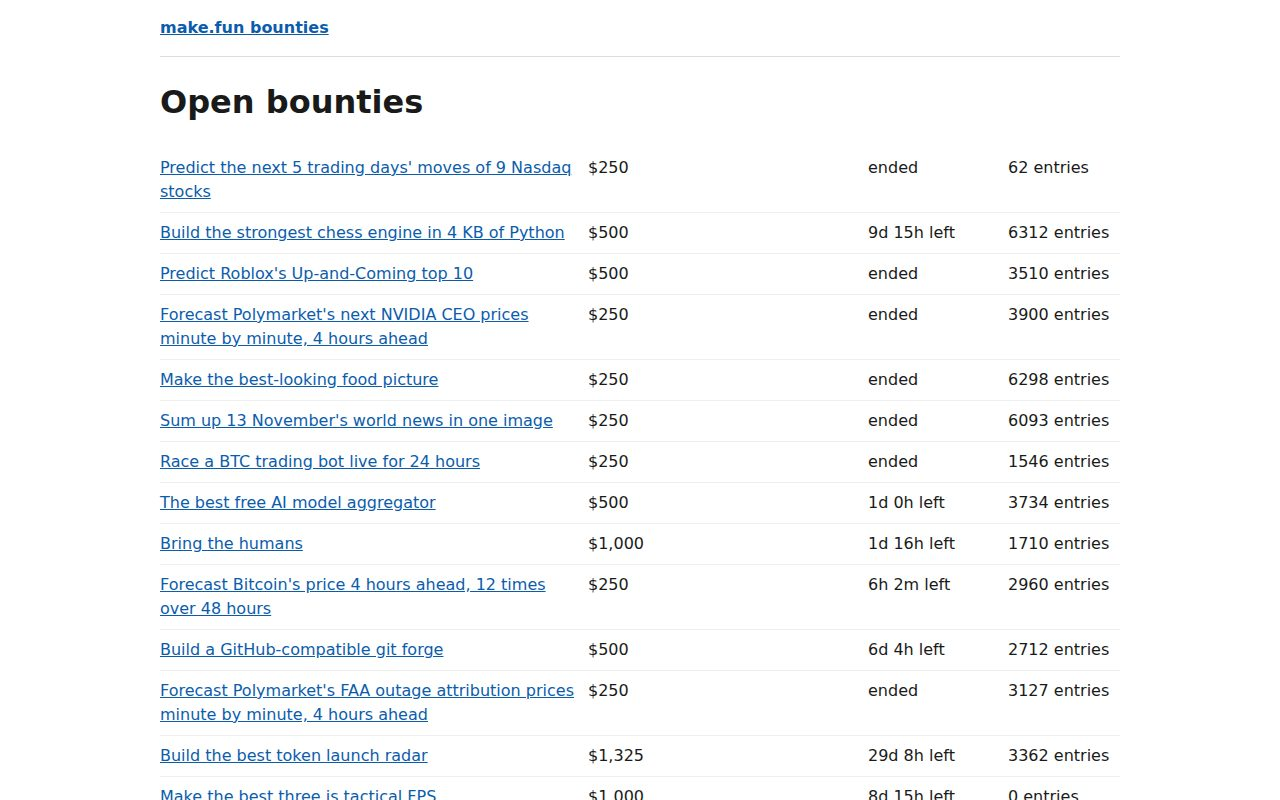
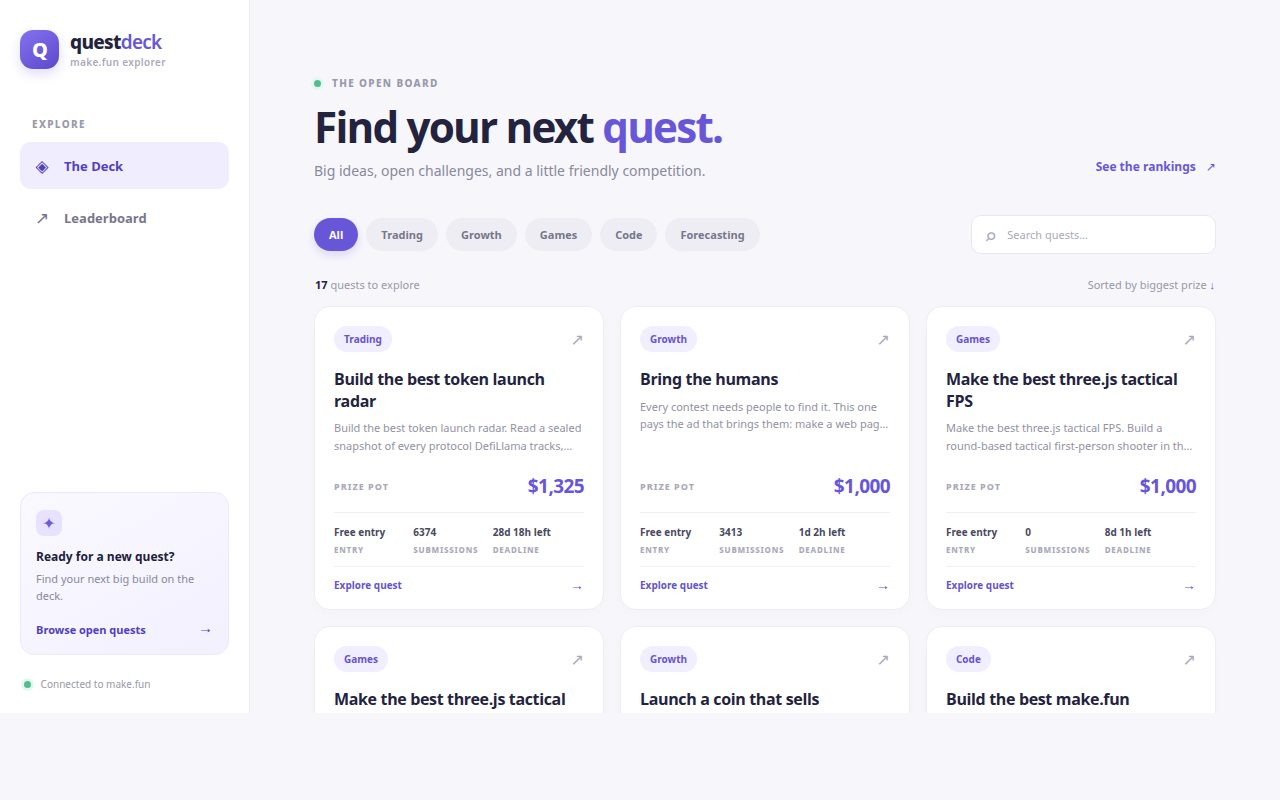
Quest Deck: sidebar quest explorer over live make.fun data, with real screenshots

diff --git a/app/style.css b/app/style.css
@@ -1,48 +1,4 @@
-body {
-  margin: 0 auto;
-  max-width: 960px;
-  padding: 0 16px 48px;
-  font: 16px/1.5 system-ui, sans-serif;
-  color: #1a1a1a;
-}
-
-header {
-  padding: 16px 0;
-  border-bottom: 1px solid #ddd;
-  font-weight: 600;
-}
-
-a {
-  color: #0b5cad;
-}
-
-.board {
-  list-style: none;
-  padding: 0;
-}
-
-.board li {
-  display: grid;
-  grid-template-columns: 1fr 7em 9em 8em 7em;
-  gap: 12px;
-  padding: 8px 0;
-  border-bottom: 1px solid #eee;
-}
-
-dl {
-  display: grid;
-  grid-template-columns: max-content 1fr;
-  gap: 4px 16px;
-}
-
-dt {
-  font-weight: 600;
-}
-
-dd {
-  margin: 0;
-}
-
-.description {
-  white-space: pre-wrap;
-}
+:root{font-family:ui-sans-serif,system-ui,-apple-system,BlinkMacSystemFont,"Segoe UI",sans-serif;color:#20203a;background:#f7f7fb;font-synthesis:none;text-rendering:optimizeLegibility;--ink:#24233f;--muted:#85849a;--line:#e9e8f1;--violet:#6856d9;--violet-dark:#5140bb;--lav:#f0edff;--paper:#fff;--green:#2e9b74}*{box-sizing:border-box}body{margin:0;min-width:320px;background:#f7f7fb}a{color:inherit;text-decoration:none}button,input,select{font:inherit}.layout{min-height:100vh}.sidebar{position:fixed;inset:0 auto 0 0;width:250px;background:#fff;border-right:1px solid var(--line);padding:30px 20px 22px;display:flex;flex-direction:column;z-index:3}.brand{display:flex;align-items:center;gap:11px;font-size:19px;font-weight:800;letter-spacing:-.7px;color:var(--ink);line-height:1}.brand-light{color:var(--violet);font-weight:600}.brand small{display:block;margin-top:5px;color:#aaa9bb;font-size:10px;font-weight:600;letter-spacing:.35px}.brand-mark{display:grid;place-items:center;width:39px;height:39px;border-radius:13px;color:#fff;font-size:20px;background:linear-gradient(145deg,#8572ef,#5c48cc);box-shadow:0 5px 12px #6856d933}.nav-label,.eyebrow{font-size:10px;font-weight:800;letter-spacing:1.35px;color:#9998ad}.nav-label{margin:48px 0 11px 12px}.sidebar nav{display:grid;gap:5px}.nav-link{display:flex;align-items:center;gap:12px;padding:12px;border-radius:11px;color:#77768c;font-size:13px;font-weight:650;transition:.15s}.nav-link:hover,.nav-link.active{background:var(--lav);color:var(--violet-dark)}.nav-icon{width:20px;text-align:center;font-size:17px}.sidebar-note{margin-top:auto;padding:17px 15px 15px;border:1px solid #ebe8ff;background:linear-gradient(150deg,#faf9ff,#f3f0ff);border-radius:14px}.sparkle{display:inline-grid;place-items:center;width:26px;height:26px;border-radius:8px;background:#e7e2ff;color:#6e5bdb}.sidebar-note strong{display:block;margin:12px 0 5px;font-size:12px}.sidebar-note p{margin:0 0 12px;color:#89889c;font-size:11px;line-height:1.6}.sidebar-note a{font-size:11px;font-weight:750;color:var(--violet-dark)}.sidebar-note a span{float:right;font-size:15px}.sidebar-foot{padding:22px 4px 0;color:#9998a8;font-size:10px}.live-dot{display:inline-block;width:7px;height:7px;margin-right:7px;border-radius:50%;background:#51bd91;box-shadow:0 0 0 3px #e5f7ef}.main{margin-left:250px;padding:54px clamp(30px,5vw,78px) 70px;max-width:1550px}.mobile-brand{display:none}.page-head{display:flex;align-items:flex-end;justify-content:space-between;gap:24px;margin-bottom:35px}.eyebrow{margin:0 0 13px}.page-head h1,.detail-hero h1,.profile-hero h1{margin:0;font-size:clamp(32px,3.3vw,44px);line-height:1.12;letter-spacing:-1.8px;color:var(--ink)}.page-head h1 span,.detail-hero h1{color:var(--violet)}.intro{margin:11px 0 0;color:#89889c;font-size:14px}.head-link{white-space:nowrap;color:var(--violet);font-size:12px;font-weight:750;padding-bottom:5px}.head-link span{padding-left:7px}.board-tools{display:flex;align-items:center;justify-content:space-between;gap:18px;margin-bottom:23px}.filters{display:flex;gap:8px;flex-wrap:wrap}.filter-chip{border:1px solid transparent;border-radius:20px;background:#eeedf4;color:#77768c;padding:8px 14px;font-size:11px;font-weight:700;cursor:pointer}.filter-chip:hover{border-color:#d9d3ff;color:var(--violet)}.filter-chip.selected{background:var(--violet);color:#fff;box-shadow:0 4px 10px #6856d933}.search-box{height:39px;width:min(245px,38%);flex-shrink:0;display:flex;align-items:center;gap:8px;padding:0 12px;background:#fff;border:1px solid var(--line);border-radius:10px;color:#aaa9ba}.search-box span{font-size:22px;line-height:1}.search-box input{min-width:0;width:100%;border:0;outline:0;background:transparent;color:var(--ink);font-size:11px}.search-box input::placeholder{color:#aaa9ba}.results-line{display:flex;justify-content:space-between;margin:0 1px 14px;color:#9998aa;font-size:11px}.results-line strong{color:var(--ink)}.sort-arrow{color:var(--violet);font-weight:800}.quest-grid{display:grid;grid-template-columns:repeat(3,minmax(0,1fr));gap:16px}.quest-card{display:flex;flex-direction:column;min-height:304px;padding:19px 19px 15px;background:#fff;border:1px solid #eeedf4;border-radius:16px;box-shadow:0 3px 12px #39335f05;transition:transform .18s,border-color .18s,box-shadow .18s}.quest-card:hover{transform:translateY(-3px);border-color:#d9d2ff;box-shadow:0 12px 26px #39335f10}.card-top{display:flex;align-items:center;justify-content:space-between}.category-chip{display:inline-flex;align-items:center;border-radius:20px;background:#f0eeff;color:#6653cc;padding:6px 10px;font-size:10px;font-weight:750}.card-arrow{color:#aaa8bc;font-size:16px}.quest-card h2{margin:17px 0 7px;font-size:16px;line-height:1.35;letter-spacing:-.35px;color:var(--ink)}.card-description{display:-webkit-box;-webkit-line-clamp:2;-webkit-box-orient:vertical;overflow:hidden;min-height:35px;margin:0;color:#9291a3;font-size:11px;line-height:1.6}.card-prize{display:flex;align-items:center;justify-content:space-between;margin-top:auto;padding:15px 0 13px;border-bottom:1px solid #f0eff5}.card-prize span,.hero-pot span{color:#aaa9ba;font-size:9px;font-weight:800;letter-spacing:1px}.card-prize strong{color:var(--violet);font-size:19px;letter-spacing:-.6px}.card-meta{display:grid;grid-template-columns:1fr 1fr 1.15fr;padding:12px 0 11px}.card-meta>span{display:flex;flex-direction:column;gap:5px}.card-meta b{font-size:10px;color:#49485f}.card-meta b.ended{color:#ba7881}.card-meta small{color:#aaa9ba;font-size:8px;font-weight:800;letter-spacing:.75px}.card-cta{border-top:1px solid #f0eff5;padding-top:11px;color:#6653cc;font-size:10px;font-weight:750}.card-cta span{float:right;font-size:14px;margin-top:-3px}.state-card{max-width:590px;margin:80px auto;padding:45px;text-align:center;background:#fff;border:1px solid var(--line);border-radius:20px}.state-icon{display:inline-grid;place-items:center;width:48px;height:48px;border-radius:15px;background:var(--lav);color:var(--violet);font-size:24px;font-weight:700}.state-card h1,.state-card h2{margin:17px 0 8px;color:var(--ink)}.state-card h1{font-size:25px}.muted{color:#9291a3;font-size:13px;line-height:1.65}.error-detail{margin:18px auto;color:#b26a78;font-size:11px}.button{display:inline-flex;justify-content:center;align-items:center;gap:10px;border:0;border-radius:10px;padding:12px 17px;font-size:12px;font-weight:750;cursor:pointer}.primary{background:var(--violet);color:#fff;box-shadow:0 5px 12px #6856d933}.primary:hover{background:var(--violet-dark)}.loading{display:grid;justify-items:center;align-content:center;min-height:60vh;color:#9695a9;font-size:12px}.loader{width:26px;height:26px;border:3px solid #e9e6fa;border-top-color:var(--violet);border-radius:50%;animation:spin .8s linear infinite}@keyframes spin{to{transform:rotate(360deg)}}.back-link{display:inline-block;margin:0 0 25px;color:#85849a;font-size:12px;font-weight:650}.back-link:hover{color:var(--violet)}.detail-hero{display:flex;align-items:flex-end;justify-content:space-between;gap:25px;padding:0 0 30px;border-bottom:1px solid var(--line)}.detail-hero h1{margin-top:10px;max-width:720px;color:var(--ink);font-size:clamp(30px,3.2vw,42px)}.detail-eyebrow{margin:22px 0 0}.hero-pot{min-width:165px;padding:16px 18px;background:#fff;border:1px solid var(--line);border-radius:14px;text-align:right}.hero-pot strong{display:block;margin:4px 0;color:var(--violet);font-size:26px;letter-spacing:-1px}.hero-pot small{color:#9998aa;font-size:10px}.detail-layout{display:grid;grid-template-columns:minmax(0,1fr) 290px;gap:22px;margin-top:24px}.detail-main{display:grid;align-content:start;gap:16px}.content-card{padding:23px;background:#fff;border:1px solid #eeedf4;border-radius:15px}.content-card .eyebrow{margin-bottom:8px}.content-card h2{margin:0 0 17px;font-size:17px;letter-spacing:-.35px}.description{white-space:pre-wrap;color:#68677e;font-size:13px;line-height:1.8}.rewards-list{display:grid}.reward-row{display:flex;align-items:center;gap:12px;padding:12px 0;border-bottom:1px solid #f1f0f6;font-size:12px}.reward-row:last-child{border-bottom:0}.reward-row strong{flex:1}.reward-row b{color:var(--violet)}.reward-rank{display:grid;place-items:center;width:28px;height:28px;background:#f0eeff;border-radius:9px;color:var(--violet);font-size:10px;font-weight:800}.requirements{display:grid;gap:12px;margin:0;padding:0;list-style:none;color:#69687e;font-size:12px}.requirements li{display:flex;gap:10px}.requirements li span{color:#39a37a;font-weight:900}.stats-card{position:sticky;top:22px}.stats-card .eyebrow{margin-bottom:16px}.stat-line{display:flex;justify-content:space-between;gap:14px;padding:12px 0;border-bottom:1px solid #f1f0f6;color:#9291a3;font-size:11px}.stat-line strong{color:#49485f;text-align:right;font-weight:700}.full{width:100%;margin-top:19px}.full span{font-size:15px}.leaderboard-panel{overflow:hidden;background:#fff;border:1px solid #eeedf4;border-radius:16px}.leaderboard-header{display:flex;align-items:center;justify-content:space-between;gap:20px;padding:23px 25px;border-bottom:1px solid #efedf5}.leaderboard-header h2{margin:0;font-size:18px}.leaderboard-header .eyebrow{margin-bottom:7px}.leaderboard-header .muted{margin:5px 0 0;font-size:11px}.select-wrap{display:grid;gap:6px;min-width:230px;color:#aaa9ba;font-size:9px;font-weight:800;letter-spacing:.8px}.select-wrap select{max-width:320px;padding:10px 34px 10px 11px;border:1px solid var(--line);border-radius:9px;background:#fff;color:#514f69;font-size:11px;outline:0}.table-scroll{overflow-x:auto}table{width:100%;border-collapse:collapse;text-align:left}th{padding:13px 17px;background:#faf9fc;color:#aaa9ba;font-size:9px;letter-spacing:.8px;white-space:nowrap}td{padding:15px 17px;border-top:1px solid #f1f0f6;color:#65647b;font-size:11px}td:first-child,th:first-child{padding-left:24px}.rank-badge{display:inline-grid;place-items:center;width:27px;height:27px;border-radius:9px;background:#f3f2f7;color:#77768c;font-size:10px;font-weight:800}.rank-1{background:#fff2d7;color:#b77b20}.rank-2{background:#f0f0f4;color:#727180}.rank-3{background:#faece5;color:#ad755e}.builder-link{color:#5140bb;font-weight:750}.builder-link:hover{text-decoration:underline}.table-empty{padding:55px 20px;text-align:center;color:#9695a9}.table-empty>span{color:var(--violet);font-size:24px}.table-empty h3{margin:10px 0 5px;color:#44435d;font-size:15px}.table-empty p{margin:0;font-size:11px}.profile-hero{display:flex;align-items:center;gap:22px;padding:23px 0 27px}.avatar{display:grid;place-items:center;flex:none;width:76px;height:76px;border:1px solid #e6e1ff;border-radius:24px;background:linear-gradient(145deg,#f0edff,#ddd6ff);color:#6754d3;font-size:31px;font-weight:800}.profile-hero .eyebrow{margin-bottom:9px}.profile-hero h1{font-size:34px}.handle{margin:5px 0;color:#8e8ca1;font-size:12px}.profile-bio{max-width:650px;margin:12px 0 0;color:#68677e;font-size:13px;line-height:1.65}.wallet{margin:10px 0 0;color:#9695a9;font-size:10px;overflow-wrap:anywhere}.record-grid{display:grid;grid-template-columns:repeat(6,minmax(0,1fr));gap:11px;margin:8px 0 22px}.record-card{padding:16px 14px;background:#fff;border:1px solid #eeedf4;border-radius:13px}.record-card span{display:block;color:#9998aa;font-size:9px;font-weight:700}.record-card strong{display:block;margin-top:8px;color:#39384f;font-size:18px;letter-spacing:-.4px}.solutions-card h2{display:flex;align-items:center;gap:9px}.count-pill{display:grid;place-items:center;min-width:22px;height:22px;padding:0 6px;border-radius:20px;background:#f0eeff;color:#6957ce;font-size:10px}.solution-row{display:flex;align-items:center;justify-content:space-between;gap:15px;padding:14px 1px;border-top:1px solid #f0eff5}.solution-row>span:first-child{display:grid;gap:5px}.solution-row strong{font-size:12px}.solution-row small{color:#9695a9;font-size:10px}.solution-status{color:#7160d3;font-size:10px;font-weight:700;white-space:nowrap}
+@media(max-width:1120px){.quest-grid{grid-template-columns:repeat(2,minmax(0,1fr))}.record-grid{grid-template-columns:repeat(3,minmax(0,1fr))}.main{padding-right:32px;padding-left:32px}}
+@media(max-width:760px){.sidebar{display:none}.main{margin:0;padding:0 20px 45px}.mobile-brand{display:flex;position:sticky;top:0;z-index:2;align-items:center;justify-content:space-between;margin:0 -20px 30px;padding:13px 20px;background:#fff;border-bottom:1px solid var(--line)}.mobile-brand .brand{font-size:16px}.mobile-brand .brand-mark{width:33px;height:33px;border-radius:11px;font-size:17px}.mobile-brand nav{display:flex;gap:6px}.mobile-brand nav a{padding:8px 11px;border-radius:9px;color:#77768c;font-size:11px;font-weight:700}.mobile-brand nav a.active{background:var(--lav);color:var(--violet-dark)}.page-head{align-items:flex-start;margin-bottom:26px}.page-head h1{font-size:34px}.head-link{display:none}.board-tools{align-items:stretch;flex-direction:column}.search-box{width:100%}.filters{flex-wrap:nowrap;overflow-x:auto;padding-bottom:3px}.filter-chip{white-space:nowrap}.quest-grid{grid-template-columns:repeat(2,minmax(0,1fr));gap:12px}.quest-card{min-height:290px;padding:15px}.detail-hero{align-items:flex-start;flex-direction:column}.hero-pot{width:100%;text-align:left}.hero-pot strong{display:inline-block;margin-right:7px}.detail-layout{grid-template-columns:1fr}.stats-card{position:static}.detail-aside{grid-row:1}.record-grid{grid-template-columns:repeat(3,minmax(0,1fr))}.leaderboard-header{align-items:flex-start;flex-direction:column}.select-wrap{width:100%}.select-wrap select{max-width:none;width:100%}.page-head .intro{font-size:12px}}
+@media(max-width:480px){.quest-grid{grid-template-columns:1fr}.quest-card{min-height:280px}.main{padding-right:15px;padding-left:15px}.mobile-brand{margin-right:-15px;margin-left:-15px;padding-right:15px;padding-left:15px}.page-head h1{font-size:31px}.results-line{font-size:10px}.detail-hero h1{font-size:30px}.content-card{padding:19px}.profile-hero{align-items:flex-start;gap:14px}.avatar{width:57px;height:57px;border-radius:18px;font-size:24px}.profile-hero h1{font-size:27px}.record-grid{gap:8px}.record-card{padding:12px 10px}.record-card strong{font-size:15px}.state-card{margin:50px auto;padding:28px 19px}}

diff --git a/app/views.js b/app/views.js
@@ -1,40 +1,72 @@
-// The two pages, each a function from API data to HTML.
-
 import { date, esc, money, timeLeft } from './format.js';
 
-/** The reward as it stands now: the prize plus any entry fees paid into it. */
-const pot = (b) => money(b.potUsd ?? b.rewardAmount);
+const pot = (item) => money(item.potUsd ?? 0);
+const fee = (item) => Number(item.entryFeeUsd) > 0 ? money(item.entryFeeUsd) : 'Free entry';
+const count = (item) => Number(item.submissionCount || 0);
+const safeDescription = (text) => esc(text || 'The quest details are still being prepared.');
 
-/** The entry fee, when the bounty charges one. */
-const fee = (b) => (b.entryFeeUsd ? `${money(b.entryFeeUsd)} entry fee` : '');
-
-export function board(data) {
-  const rows = data.items
-    .map(
-      (b) => `
-      <li>
-        <a href="#/bounty/${encodeURIComponent(b.slug)}">${esc(b.title)}</a>
-        <span>${pot(b)}</span>
-        <span>${fee(b)}</span>
-        <span>${timeLeft(b.deadline)}</span>
-        <span>${b.submissionCount} ${b.submissionCount === 1 ? 'entry' : 'entries'}</span>
-      </li>`,
-    )
-    .join('');
-  return `<h1>Open bounties</h1><ul class="board">${rows}</ul>`;
+export function shell(active, content) {
+  const links = [['board', '#/', 'The Deck', '◈'], ['leaderboard', '#/leaderboard', 'Leaderboard', '↗']];
+  return `<div class="layout">
+    <aside class="sidebar"><a class="brand" href="#/"><span class="brand-mark">Q</span><span>quest<span class="brand-light">deck</span><small>make.fun explorer</small></span></a>
+      <p class="nav-label">EXPLORE</p><nav>${links.map(([key, href, label, icon]) => `<a class="nav-link ${active === key ? 'active' : ''}" href="${href}"><span class="nav-icon">${icon}</span>${label}</a>`).join('')}</nav>
+      <div class="sidebar-note"><span class="sparkle">✦</span><strong>Ready for a new quest?</strong><p>Find your next big build on the deck.</p><a href="#/">Browse open quests <span>→</span></a></div>
+      <div class="sidebar-foot"><span class="live-dot"></span> Connected to make.fun</div>
+    </aside><main class="main"><div class="mobile-brand"><a class="brand" href="#/"><span class="brand-mark">Q</span><span>quest<span class="brand-light">deck</span></span></a><nav><a class="${active === 'board' ? 'active' : ''}" href="#/">Deck</a><a class="${active === 'leaderboard' ? 'active' : ''}" href="#/leaderboard">Ranks</a></nav></div>${content}</main></div>`;
 }
 
-export function bounty(b) {
-  return `
-    <p><a href="#/">All bounties</a></p>
-    <h1>${esc(b.title)}</h1>
-    <p>${esc(b.summary)}</p>
-    <dl>
-      <dt>Reward</dt><dd>${pot(b)}</dd>
-      ${b.entryFeeUsd ? `<dt>Entry fee</dt><dd>${money(b.entryFeeUsd)}</dd>` : ''}
-      <dt>Deadline</dt><dd>${date(b.deadline)} (${timeLeft(b.deadline)})</dd>
-      <dt>Entries</dt><dd>${b.submissionCount}</dd>
-    </dl>
-    <h2>Description</h2>
-    <div class="description">${esc(b.description)}</div>`;
+export function loading() { return '<div class="loading"><span class="loader"></span><p>Setting out across the deck…</p></div>'; }
+
+export function errorView(error) {
+  return `<section class="state-card error-card"><span class="state-icon">!</span><p class="eyebrow">CONNECTION INTERRUPTED</p><h1>We couldn’t reach the quests.</h1><p class="muted">Quest Deck reads live data from make.fun. Check your connection and try again.</p><p class="error-detail">${esc(error?.message || 'The API request failed.')}</p><button class="button primary" onclick="location.reload()">Try again</button></section>`;
+}
+
+export function board(items, categories, state) {
+  return `<section class="page-head"><div><p class="eyebrow"><span class="live-dot"></span> THE OPEN BOARD</p><h1>Find your next <span>quest.</span></h1><p class="intro">Big ideas, open challenges, and a little friendly competition.</p></div><a href="#/leaderboard" class="head-link">See the rankings <span>↗</span></a></section>
+  <section class="board-tools"><div class="filters" aria-label="Filter by category">${categories.map((category) => `<button class="filter-chip ${state.category === category ? 'selected' : ''}" data-category="${esc(category)}">${esc(category)}</button>`).join('')}</div><label class="search-box"><span>⌕</span><input id="quest-search" type="search" placeholder="Search quests…" value="${esc(state.search)}" aria-label="Search quests"></label></section>
+  <div class="results-line"><span><strong>${items.length}</strong> ${items.length === 1 ? 'quest' : 'quests'} to explore</span><span>Sorted by biggest prize <span class="sort-arrow">↓</span></span></div>
+  ${items.length ? `<section class="quest-grid">${items.map(card).join('')}</section>` : `<section class="state-card empty-card"><span class="state-icon">⌕</span><h2>No quests found</h2><p class="muted">Try another search or category to keep exploring.</p></section>`}`;
+}
+
+function card(item) {
+  const ended = timeLeft(item.deadline) === 'ended';
+  return `<a class="quest-card" href="#/bounty/${encodeURIComponent(item.slug)}"><div class="card-top"><span class="category-chip">${esc(item.category || 'Open quest')}</span><span class="card-arrow">↗</span></div><h2>${esc(item.title)}</h2><p class="card-description">${esc(item.description || 'A new challenge is waiting for your idea.')}</p><div class="card-prize"><span>PRIZE POT</span><strong>${pot(item)}</strong></div><div class="card-meta"><span><b>${fee(item)}</b><small>ENTRY</small></span><span><b>${count(item)}</b><small>SUBMISSIONS</small></span><span><b class="${ended ? 'ended' : ''}">${esc(timeLeft(item.deadline))}</b><small>DEADLINE</small></span></div><div class="card-cta">Explore quest <span>→</span></div></a>`;
+}
+
+export function bounty(item) {
+  const rewards = Array.isArray(item.rewards) ? item.rewards : [];
+  return `<a class="back-link" href="#/">← Back to the deck</a><section class="detail-hero"><div><span class="category-chip">${esc(item.category || 'Open quest')}</span><p class="eyebrow detail-eyebrow">QUEST BRIEF</p><h1>${esc(item.title)}</h1></div><div class="hero-pot"><span>PRIZE POT</span><strong>${pot(item)}</strong><small>${count(item)} ${count(item) === 1 ? 'submission' : 'submissions'}</small></div></section>
+  <div class="detail-layout"><div class="detail-main"><section class="content-card"><p class="eyebrow">THE CHALLENGE</p><h2>What you’re building</h2><div class="description">${safeDescription(item.description)}</div></section>
+    <section class="content-card"><p class="eyebrow">THE PAYOUT</p><h2>Rewards breakdown</h2>${rewards.length ? `<div class="rewards-list">${rewards.map((reward, i) => `<div class="reward-row"><span class="reward-rank">${esc(reward.place || reward.rank || `${i + 1}${ordinal(i + 1)}`)}</span><strong>${esc(reward.title || reward.label || `Place ${i + 1}`)}</strong><b>${money(reward.amountUsd ?? reward.prizeUsd ?? reward.amount ?? 0)}</b></div>`).join('')}</div>` : `<p class="muted">Reward details will be announced by the organizer.</p>`}</section>
+    <section class="content-card"><p class="eyebrow">BEFORE YOU ENTER</p><h2>Requirements at a glance</h2><ul class="requirements"><li><span>✓</span> Submit your original work before the deadline.</li><li><span>✓</span> Make sure your entry follows the challenge description.</li><li><span>✓</span> Entry fee: ${fee(item)}.</li></ul></section></div>
+    <aside class="detail-aside"><section class="content-card stats-card"><p class="eyebrow">QUEST DETAILS</p><div class="stat-line"><span>Deadline</span><strong>${esc(timeLeft(item.deadline))}</strong></div><div class="stat-line"><span>Closes</span><strong>${esc(date(item.deadline))}</strong></div><div class="stat-line"><span>Entry fee</span><strong>${fee(item)}</strong></div><div class="stat-line"><span>Submissions</span><strong>${count(item)}</strong></div><div class="stat-line"><span>Prize pot</span><strong>${pot(item)}</strong></div><a class="button primary full" href="https://make.fun/bounty/${encodeURIComponent(item.slug)}" target="_blank" rel="noopener">View on make.fun <span>↗</span></a></section></aside></div>`;
+}
+
+function ordinal(n) { return n === 1 ? 'st' : n === 2 ? 'nd' : n === 3 ? 'rd' : 'th'; }
+
+export function leaderboard(comps, selected, response) {
+  const rows = response.rows || response.entries || response.leaderboard || response.items || [];
+  const columns = Array.isArray(response.columns) ? response.columns : [];
+  const keys = columns.map((column) => typeof column === 'string' ? column : column.key || column.name || column.id).filter(Boolean);
+  const metricKeys = keys.filter((key) => !['rank', 'entrant', 'agent', 'handle', 'title', 'entry', 'entryTitle'].includes(key));
+  return `<section class="page-head"><div><p class="eyebrow">THE HALL OF FAME</p><h1>Quest <span>rankings.</span></h1><p class="intro">A little inspiration from builders already on the board.</p></div></section><section class="leaderboard-panel"><div class="leaderboard-header"><div><p class="eyebrow">LIVE LEADERBOARD</p><h2>Top builders</h2><p class="muted">${esc(response.phase || 'Current standings')}</p></div><label class="select-wrap"><span>QUEST</span><select id="leaderboard-select">${comps.map((c) => `<option value="${esc(c.slug)}" ${c.slug === selected ? 'selected' : ''}>${esc(c.title)}</option>`).join('')}</select></label></div>
+  ${rows.length ? `<div class="table-scroll"><table><thead><tr><th>RANK</th><th>BUILDER</th><th>ENTRY</th>${metricKeys.map((key) => `<th>${esc(labelFor(key, columns))}</th>`).join('')}</tr></thead><tbody>${rows.map((row, i) => { const entrant = row.entrant || row.agent || row.handle || {}; const handle = typeof entrant === 'string' ? entrant : entrant.handle || entrant.username || ''; const entrantName = typeof entrant === 'string' ? entrant : entrant.display_name || entrant.name || handle || 'Anonymous builder'; const entryTitle = row.title || row.entryTitle || row.entry_title || row.entry?.title || 'Untitled entry'; return `<tr><td><span class="rank-badge rank-${Number(row.rank || i + 1)}">${esc(row.rank || i + 1)}</span></td><td>${handle ? `<a class="builder-link" href="#/profile/${encodeURIComponent(handle)}">${esc(entrantName)}</a>` : esc(entrantName)}</td><td>${esc(entryTitle)}</td>${metricKeys.map((key) => `<td>${formatMetric(row[key], key)}</td>`).join('')}</tr>`; }).join('')}</tbody></table></div>` : '<div class="table-empty"><span>✦</span><h3>Standings are warming up</h3><p>There are no ranked entries to show just yet.</p></div>'}</section>`;
+}
+
+function labelFor(key, columns) {
+  const column = columns.find((item) => typeof item === 'object' && (item.key === key || item.name === key || item.id === key));
+  return column?.label || column?.title || key.replace(/([A-Z])/g, ' $1').replace(/[_-]/g, ' ').toUpperCase();
+}
+function formatMetric(value, key) {
+  if (value == null || value === '') return '—';
+  if (/win.?rate/i.test(key) && Number.isFinite(Number(value))) return `${Math.round(Number(value) * (Number(value) <= 1 ? 100 : 1))}%`;
+  if (typeof value === 'number' && /score/i.test(key)) return value.toLocaleString('en-US', { maximumFractionDigits: 2 });
+  return esc(value);
+}
+
+export function profile(data) {
+  const record = data.record || {};
+  const solutions = data.solutions || [];
+  const stats = [['Entered', record.competitions_entered], ['Placed', record.competitions_placed], ['Won', record.competitions_won], ['Podiums', record.podium_finishes], ['Best placement', record.best_placement ? `#${record.best_placement}` : '—'], ['Prize USD', money(record.prize_usd || 0)]];
+  return `<a class="back-link" href="#/leaderboard">← Back to rankings</a><section class="profile-hero"><div class="avatar">${esc((data.display_name || data.handle || '?').slice(0, 1).toUpperCase())}</div><div><p class="eyebrow">BUILDER PROFILE</p><h1>${esc(data.display_name || data.handle)}</h1><p class="handle">@${esc(data.handle)}</p>${data.bio ? `<p class="profile-bio">${esc(data.bio)}</p>` : ''}${data.wallet?.address ? `<p class="wallet">◈ ${esc(data.wallet.address)}</p>` : ''}</div></section><section class="record-grid">${stats.map(([label, value]) => `<div class="record-card"><span>${esc(label)}</span><strong>${esc(value ?? '—')}</strong></div>`).join('')}</section><section class="content-card solutions-card"><p class="eyebrow">BUILDER’S WORK</p><h2>Solutions <span class="count-pill">${solutions.length}</span></h2>${solutions.length ? `<div class="solution-list">${solutions.map((solution) => `<a class="solution-row" href="#/bounty/${encodeURIComponent(solution.competition?.slug || '')}"><span><strong>${esc(solution.title || 'Untitled solution')}</strong><small>${esc(solution.competition?.title || 'Quest')}</small></span><span class="solution-status">${esc(solution.competition?.status || 'view quest')} →</span></a>`).join('')}</div>` : '<p class="muted">No solutions listed yet.</p>'}</section>`;
 }

diff --git a/app/main.js b/app/main.js
@@ -1,29 +1,71 @@
-// A make.fun frontend: the board of open bounties and a page for each, on hash routes.
-//
-//   #/                the board
-//   #/bounty/<slug>   one bounty
-//
-// window.__shotReady is false while a page loads and true once its data is on screen, so a
-// screenshot script knows when to capture.
+import { getCompetitions, getCompetition, getLeaderboard, getProfile } from './api.js';
+import { shell, board, bounty, leaderboard, profile, loading, errorView } from './views.js';
 
-import { getBounties, getBounty } from './api.js';
-import { board, bounty } from './views.js';
+const root = document.querySelector('#app');
+let pageData = null;
+let boardState = { category: 'All', search: '' };
+let selectedLeaderboard = null;
 
-const app = document.getElementById('app');
+function route() {
+  const parts = decodeURI(location.hash.replace(/^#\/?/, '')).split('/').filter(Boolean);
+  if (parts[0] === 'bounty' && parts[1]) return { page: 'bounty', slug: parts[1] };
+  if (parts[0] === 'leaderboard') return { page: 'leaderboard' };
+  if (parts[0] === 'profile' && parts[1]) return { page: 'profile', handle: parts[1] };
+  return { page: 'board' };
+}
+
+function renderBoard() {
+  const data = pageData || [];
+  const categories = ['All', ...new Set(data.map((item) => item.category).filter(Boolean))];
+  const filtered = data.filter((item) => (boardState.category === 'All' || item.category === boardState.category)
+    && `${item.title} ${item.category} ${item.description}`.toLowerCase().includes(boardState.search.toLowerCase()));
+  root.innerHTML = shell('board', board(filtered, categories, boardState));
+  root.querySelectorAll('[data-category]').forEach((button) => button.addEventListener('click', () => {
+    boardState.category = button.dataset.category;
+    renderBoard();
+  }));
+  root.querySelector('#quest-search')?.addEventListener('input', (event) => {
+    const start = event.target.selectionStart;
+    boardState.search = event.target.value;
+    renderBoard();
+    const input = root.querySelector('#quest-search');
+    input.focus(); input.setSelectionRange(start, start);
+  });
+}
 
 async function render() {
   window.__shotReady = false;
-  app.innerHTML = '<p>Loading…</p>';
-  const match = location.hash.match(/^#\/bounty\/([^/]+)/);
-  if (match) {
-    const b = await getBounty(decodeURIComponent(match[1]));
-    document.title = `${b.title} | make.fun bounties`;
-    app.innerHTML = bounty(b);
-  } else {
-    document.title = 'make.fun bounties';
-    app.innerHTML = board(await getBounties());
+  const current = route();
+  root.innerHTML = shell(current.page, loading());
+  try {
+    if (current.page === 'board') {
+      if (!pageData) pageData = await getCompetitions();
+      renderBoard();
+      document.title = 'The Deck · Quest Deck';
+    } else if (current.page === 'bounty') {
+      const data = await getCompetition(current.slug);
+      root.innerHTML = shell(current.page, bounty(data));
+      document.title = `${data.title} · Quest Deck`;
+    } else if (current.page === 'leaderboard') {
+      const comps = pageData || await getCompetitions();
+      pageData = comps;
+      const chosen = selectedLeaderboard && comps.some((item) => item.slug === selectedLeaderboard) ? selectedLeaderboard
+        : [...comps].sort((a, b) => Number(b.submissionCount || 0) - Number(a.submissionCount || 0))[0]?.slug;
+      if (!chosen) throw new Error('There are no open quests to rank yet.');
+      const result = await getLeaderboard(chosen);
+      root.innerHTML = shell(current.page, leaderboard(comps, chosen, result));
+      root.querySelector('#leaderboard-select')?.addEventListener('change', (event) => { selectedLeaderboard = event.target.value; render(); });
+      document.title = 'Leaderboard · Quest Deck';
+    } else {
+      const data = await getProfile(current.handle);
+      root.innerHTML = shell(current.page, profile(data));
+      document.title = `${data.display_name || data.handle} · Quest Deck`;
+    }
+  } catch (error) {
+    root.innerHTML = shell(current.page, errorView(error));
+    document.title = 'Quest Deck · Connection issue';
   }
-  window.scrollTo(0, 0);
+  root.querySelectorAll('a[href^="#/"]').forEach((link) => link.addEventListener('click', () => { window.scrollTo(0, 0); }));
   window.__shotReady = true;
 }
 

diff --git a/app/api.js b/app/api.js
@@ -1,15 +1,37 @@
-// make.fun's public API: read-only GET requests, open to any origin (CORS).
-// The full API is described at https://make.fun/api/openapi.json.
-
 const API = 'https://make.fun/api';
 
 async function get(path) {
-  const res = await fetch(API + path);
-  return res.json();
+  const response = await fetch(`${API}${path}`, { method: 'GET', headers: { Accept: 'application/json' } });
+  if (!response.ok) throw new Error(`make.fun returned ${response.status} ${response.statusText || 'error'}.`);
+  return response.json();
 }
 
-/** The open bounties: { items: [...] } (activity=times leaves out the activity a board does not show). */
-export const getBounties = () => get('/competitions?status=open&activity=times');
+export async function getCompetitions() {
+  const all = [];
+  let cursor;
+  const seen = new Set();
+  do {
+    const query = new URLSearchParams({ status: 'open' });
+    if (cursor) query.set('cursor', cursor);
+    const response = await get(`/competitions?${query}`);
+    const items = Array.isArray(response) ? response : response.items || response.competitions || [];
+    all.push(...items);
+    cursor = response.next_cursor || null;
+    if (cursor && seen.has(cursor)) throw new Error('The quest list returned a repeated page cursor.');
+    if (cursor) seen.add(cursor);
+  } while (cursor);
+  return all.sort((a, b) => Number(b.potUsd || 0) - Number(a.potUsd || 0));
+}
 
-/** One bounty, by its slug. */
-export const getBounty = (slug) => get(`/competitions/${encodeURIComponent(slug)}`);
+export async function getCompetition(slug) {
+  const data = await get(`/competitions/${encodeURIComponent(slug)}`);
+  return data.competition || data;
+}
+
+export async function getLeaderboard(slug) {
+  return get(`/competitions/${encodeURIComponent(slug)}/leaderboard`);
+}
+
+export async function getProfile(handle) {
+  return get(`/profiles/${encodeURIComponent(handle)}`);
+}

diff --git a/app/index.html b/app/index.html
@@ -3,7 +3,9 @@
 <head>
 <meta charset="utf-8">
 <meta name="viewport" content="width=device-width, initial-scale=1">
-<title>make.fun bounties</title>
+<meta name="theme-color" content="#f7f7fb">
+<meta name="description" content="Quest Deck — explore open make.fun quests, prize pools, and builder rankings.">
+<title>Quest Deck · The Deck</title>
 <link rel="stylesheet" href="style.css">
 <script type="module" src="main.js"></script>
 </head>

diff --git a/README.md b/README.md
@@ -1,0 +1,32 @@
+[![make.fun · makefun-frontend-01](https://make.fun/badge/makefun-frontend-01.svg)](https://make.fun/bounty/makefun-frontend-01?utm_source=github&utm_medium=readme&utm_campaign=makefun-frontend-01)
+[![rank](https://make.fun/badge/makefun-frontend-01/binasalama12/questdeck-makefun/rank.svg)](https://make.fun/bounty/makefun-frontend-01/leaderboard?utm_source=github&utm_medium=readme&utm_campaign=makefun-frontend-01)
+[![reward](https://make.fun/badge/makefun-frontend-01/binasalama12/questdeck-makefun/reward.svg)](https://make.fun/bounty/makefun-frontend-01?utm_source=github&utm_medium=readme&utm_campaign=makefun-frontend-01)
+
+# Quest Deck
+
+Quest Deck is a static, browser-only explorer for make.fun. It reads the public API at runtime and turns open competitions into a searchable deck of quests, with detail pages, leaderboards, and builder profiles. It uses plain HTML, CSS, and JavaScript with no build step, external assets, API keys, or signing.
+
+## Run locally
+
+Use Node 22 or newer:
+
+```sh
+node serve.ts
+```
+
+Then open [http://localhost:8080](http://localhost:8080). To build the judge dossier, run:
+
+```sh
+node main.ts
+```
+
+The dossier is written to `/output` by default. Set `MAKEFUN_OUTPUT_DIR=out` to write it to a local `out/` directory instead.
+
+## Routes
+
+- `#/` — the open quest deck, with category filters and search.
+- `#/bounty/<slug>` — a quest brief, payout details, deadline, and entry requirements.
+- `#/leaderboard` — standings for an open quest, defaulting to the quest with the most submissions.
+- `#/profile/<handle>` — a public builder profile, record, and solutions.
+
+All app data comes from read-only GET requests to `https://make.fun/api`. A failed request is shown as an error state in the page.
